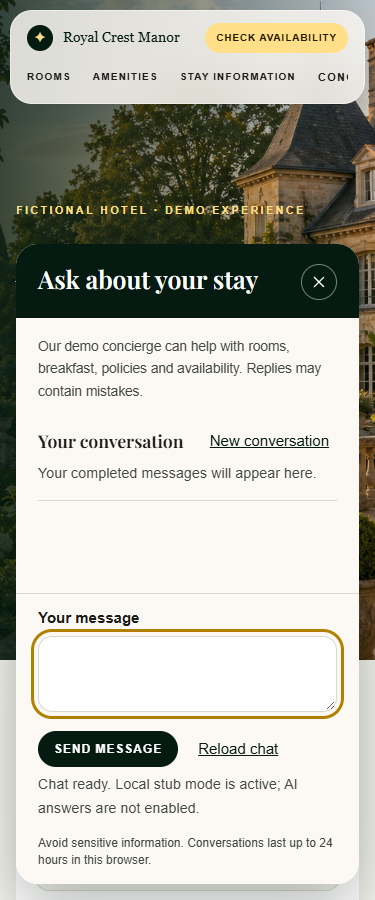
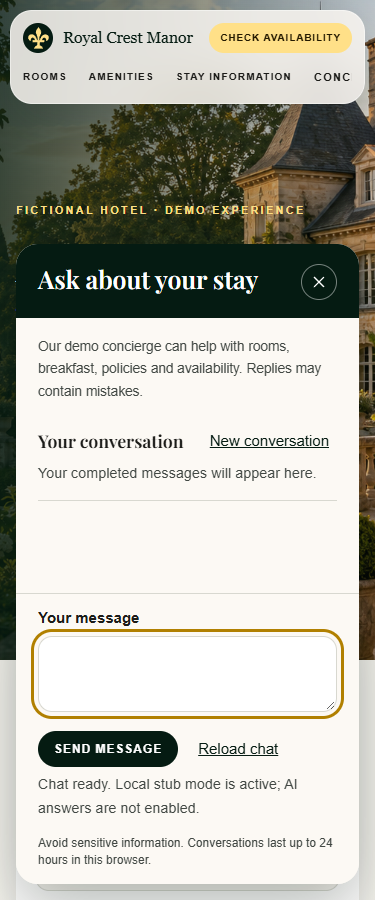
SIN-64: enlarge fleur-de-lis navigation brand

Changed region(s): [[0.176, 0.0311, 0.9387, 0.0933], [0.0587, 0.0, 0.176, 0.0933]]

diff --git a/frontend/assets/site.css b/frontend/assets/site.css
@@ -117,7 +117,7 @@ button:disabled {
   white-space: nowrap;
   color: var(--green);
   font-family: Georgia, serif;
-  font-size: 1.08rem;
+  font-size: 1.22rem;
   display: flex;
   align-items: center;
   gap: 10px;
@@ -128,8 +128,12 @@ button:disabled {
   background: var(--green);
   color: var(--gold);
   border-radius: 50%;
-  width: 32px;
-  height: 32px;
+  width: 38px;
+  height: 38px;
+}
+.brand-mark .fleur-icon {
+  width: 33px;
+  height: 33px;
 }
 .nav-links {
   display: flex;
@@ -726,7 +730,15 @@ button:disabled {
     font-size: 0.64rem;
   }
   .brand {
-    font-size: 0.95rem;
+    font-size: 1.08rem;
+  }
+  .brand-mark {
+    width: 36px;
+    height: 36px;
+  }
+  .brand-mark .fleur-icon {
+    width: 31px;
+    height: 31px;
   }
   .nav-cta {
     padding: 11px 14px;
@@ -776,13 +788,18 @@ button:disabled {
   .nav-shell {
     width: calc(100% - 20px);
     border-radius: 22px;
+    padding-inline: 12px;
   }
   .brand {
-    font-size: 0.88rem;
+    font-size: 0.98rem;
   }
   .brand-mark {
-    width: 26px;
-    height: 26px;
+    width: 30px;
+    height: 30px;
+  }
+  .brand-mark .fleur-icon {
+    width: 27px;
+    height: 27px;
   }
   .nav-cta {
     font-size: 0.62rem;

diff --git a/frontend/index.html b/frontend/index.html
@@ -14,7 +14,13 @@
     <header class="site-header">
       <nav class="nav-shell" aria-label="Main navigation">
         <a class="brand" href="/" aria-label="Royal Crest Manor home"
-          ><span class="brand-mark" aria-hidden="true">✦</span
+          ><span class="brand-mark" aria-hidden="true">
+            <svg class="fleur-icon" viewBox="0 0 64 64" fill="currentColor" focusable="false">
+              <path d="M32 5c-7 8-8 13-4 19 2 3 2 6 2 12h4c0-6 0-9 2-12 4-6 3-11-4-19ZM29 37c-2-8-6-15-13-15-6 0-10 5-8 11 1 3 3 4 6 5-1-4 0-7 3-8 4-1 7 4 7 8h5Z" />
+              <path d="M29 37c-2-8-6-15-13-15-6 0-10 5-8 11 1 3 3 4 6 5-1-4 0-7 3-8 4-1 7 4 7 8h5Z" transform="translate(64 0) scale(-1 1)" />
+              <path d="M18 36h28v5H18zM29 40h6v8c4 1 7 4 8 8H21c1-4 4-7 8-8v-8Z" />
+            </svg>
+          </span
           ><span id="brand-name">Royal Crest Manor</span></a
         >
         <div class="nav-links">

diff --git a/docs/sin-64-verification.md b/docs/sin-64-verification.md
@@ -12,6 +12,8 @@ reviews, locations or services from the design reference.
 The chat now opens from a fixed Ask button on every page. It keeps one shared
 conversation window and uses the same session, history and chat API. The window
 can be opened and closed with the keyboard, and Escape returns focus to the button.
+The navigation logo uses a larger gold fleur-de-lis and a larger hotel name.
+The Ask button keeps its star.
 
 ## Check
 
@@ -40,6 +42,10 @@ can be opened and closed with the keyboard, and Escape returns focus to the butt
   stop and error recovery. The assistant browser check passed for safe text,
   source links, history and reset in the window. [Open chat at 375 px](screenshots/sin-64-chat-375.png)
   and [open chat at 1440 px](screenshots/sin-64-chat-1440.png) show the result.
+- The logo follow-up passed the guest browser check at 375, 768 and 1440 px.
+  A separate 789 px visual check confirmed the larger brand fits the navigation.
+  The 375 px view keeps the brand and availability button on one row, with no
+  horizontal overflow.
 
 ## Limits and next step
 
